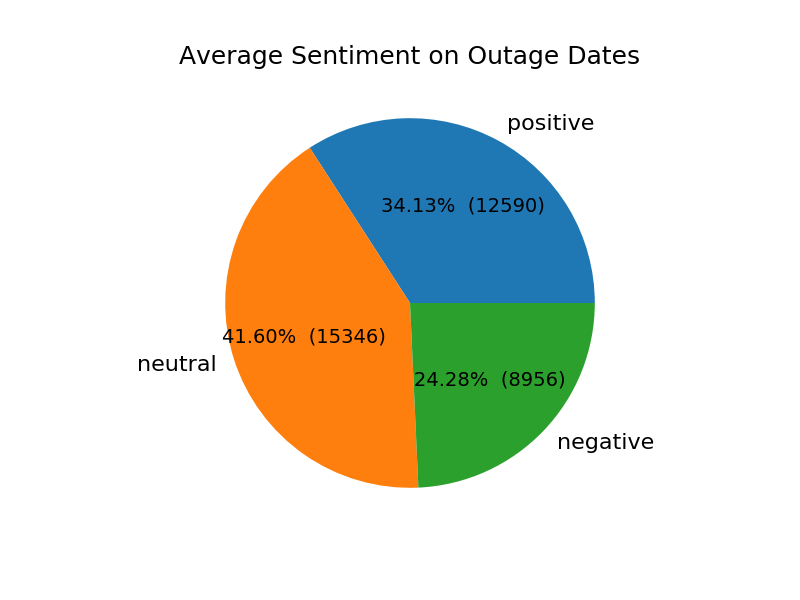
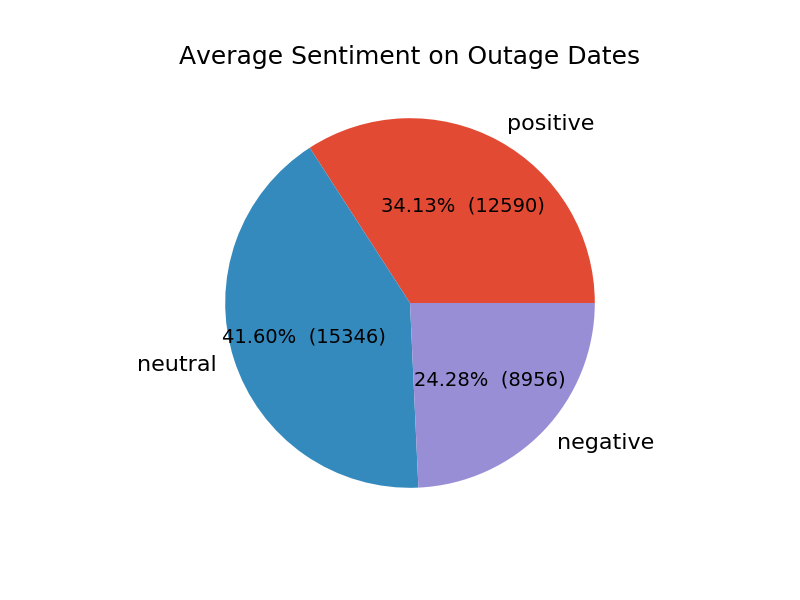
added some stuff to outages in order to find out something I needed in the paper

Changed region(s): [[0.2812, 0.18, 0.75, 0.84]]

diff --git a/ShawOutages.py b/ShawOutages.py
@@ -7,17 +7,12 @@ import got
 import numpy as np
 import matplotlib.pyplot as plt
 from textblob import TextBlob
+from collections import Counter
 
+plt.style.use('ggplot')
 
-####input your credentials here
-consumer_key = 'ejCkcbYsjKRCI6e125bJpG49x'
-consumer_secret = 'qqEeJUPeFdlZyETjx6hJxfFw6i1gYWCINpQvdwdJzh7rMKttTu'
-access_token = '919666743655538688-bCIJ3vxitH4jX1XE7xj1sUniYGR5pjH'
-access_token_secret = 'bDrJFwMNPd54FeeMoDMewBoAR5FQoLySc1ILBH9bs8x98'
-
-auth = tweepy.OAuthHandler(consumer_key, consumer_secret)
-auth.set_access_token(access_token, access_token_secret)
-api = tweepy.API(auth,wait_on_rate_limit=True)
+all_unofficial_dates = []
+all_official_dates   = []
 
 ##################################
 # Helper functions
@@ -30,6 +25,7 @@ def find_report_dates(rdates, csv_name):
     for tweet in tweets:
         if 'outage' in tweet or 'Outage' in tweet or 'down' in tweet:
             date = dates[count].split(' ')
+            all_unofficial_dates.append(date[0])
             if (date[0] not in rdates):
                 rdates.append(date[0])
         count = count + 1
@@ -40,11 +36,13 @@ def find_official_report_dates(rdates):
     t = t[pd.notnull(t['tweet_date'])]
     tweets = t['text']
     dates = t['tweet_date']
+
     count = 0
     for tweet in tweets:
         if 'outage' in tweet or 'Outage' in tweet or 'down ' in tweet:
             if ('Not' not in tweet and 'not' not in tweet and 'no' not in tweet and 'n\'t' not in tweet):
                 date = dates[count].split(' ')
+                all_official_dates.append(date[0])
                 if (date[0] not in rdates):
                     rdates.append(date[0])
         count = count + 1
@@ -97,6 +95,14 @@ def make_autopct(values):
         return '{p:.2f}%  ({v:d})'.format(p=pct,v=val)
     return my_autopct
 
+
+def findOutagesByDayofWeek(dateList):
+    df = pd.DataFrame(Counter(dateList).most_common(5), columns=['Date', 'Frequency'])
+    df = df.set_index('Date')
+
+    print(df)
+
+
 ##################################
 # Plot functions
 ##################################
@@ -106,23 +112,23 @@ def plot_outage_report_numbers(source,df):
         fig = df.iloc[0].plot(kind='bar',rot='horizontal',figsize=(9,6), title='Total Number of Official/Unofficial Outage Reports')
         fig.set_xlabel("Reports")
         fig.set_ylabel("Total Number of Outage Reports")
-        
+
         plt.title('Total Number of Official/Unofficial Outage Reports', fontsize=18)
         plt.savefig('plots/' + source + '_outage_report_numbers')
-        
+
         plt.tight_layout()
         plt.show()
 
 def plot_missed_reports(source,df):
     if not df.empty:
-        fig = df.iloc[0].plot.pie(figsize=(7,5), title='Officially Reported vs Unreported Outages', autopct='%.2f', colors=['c','y'], fontsize=14)
+        fig = df.iloc[0].plot.pie(figsize=(7,5), title='Officially Reported vs Unreported Outages', autopct='%.2f', fontsize=14)
         fig.set_aspect('equal')
         fig.set_xlabel(" ")
         fig.set_ylabel(" ")
-        
+
         plt.title('Officially Reported vs Unreported Outages', fontsize=18)
         plt.savefig('plots/' + source + '_outage_missed_reports')
-        
+
         plt.tight_layout()
         plt.show()
 
@@ -133,27 +139,26 @@ def plot_sentiment_numbers(source,df):
     if not df.empty:
         df['sentiment'] = df.apply(lambda x: get_tweet_sentiment(x['text']), axis=1)
         counts = df['sentiment'].value_counts().to_dict()
-        
+
         vals = counts.values()
         sentiments = counts.keys()
-        
+
         fig = plt.figure(figsize=(8,6))
-        
+
         plt.axis("equal")
-        
+
         patches, texts, autotexts = plt.pie(vals, labels=sentiments, autopct=make_autopct(vals))
         plt.title('Average Sentiment on Outage Dates', fontsize=18)
-        
+
         for t in texts:
             t.set_size(16)
         for t in autotexts:
             t.set_size(14)
-    
+
         fig.savefig('plots/' + source + '_sentiment_numbers')
-        
+
         plt.tight_layout()
     plt.show()
-
 
 ##################################
 # Main
@@ -177,10 +182,10 @@ missedrdate_num = len(missed_dates)
 #set up data frame
 d = {'Official': [officialrdate_num], 'Unofficial': [rdate_num]}
 df = pd.DataFrame(d)
-plot_outage_report_numbers('Shaw',df)
+# plot_outage_report_numbers('Shaw',df)
 md = {'Reported': [officialrdate_num], 'Unreported': [missedrdate_num]}
 mdf = pd.DataFrame(md)
-plot_missed_reports('Shaw',mdf)
+# plot_missed_reports('Shaw',mdf)
 
 #Get tweets corresponding to outage dates
 outage_tweets = []
@@ -193,7 +198,7 @@ find_corresponding_tweets(outage_dates, 'datasets/atShawHelp.csv', outage_tweets
 #set up dataframe
 sd = {'text': outage_tweets}
 sdf = pd.DataFrame(sd)
-plot_sentiment_numbers('ShawOutages',sdf)
+# plot_sentiment_numbers('ShawOutages',sdf)
 
 #lag analysis
 lag_dates = []
@@ -201,3 +206,12 @@ find_lag_dates(lag_dates, 'datasets/ShawInternet_hashtags.csv')
 find_lag_dates(lag_dates, 'datasets/atShawHelp.csv')
 print('Number of days lag or internet problems were reported: ', len(lag_dates)) #the number is 376
 
+
+
+print("\n=================================================================")
+print("Finding most common dates...")
+print("=================================================================")
+print("\n************** Unreported **************")
+findOutagesByDayofWeek(all_unofficial_dates)
+print("\n************** Reported **************")
+findOutagesByDayofWeek(all_official_dates)
